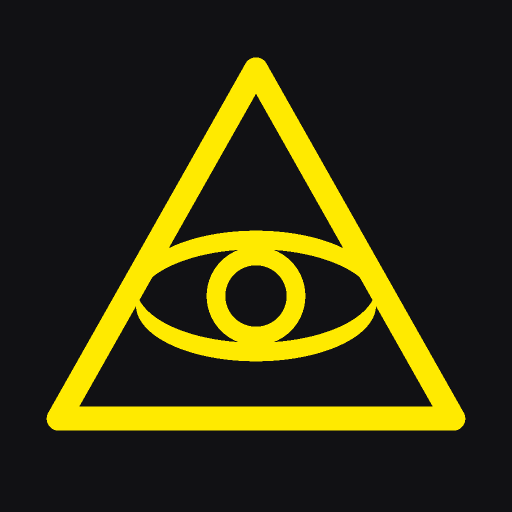
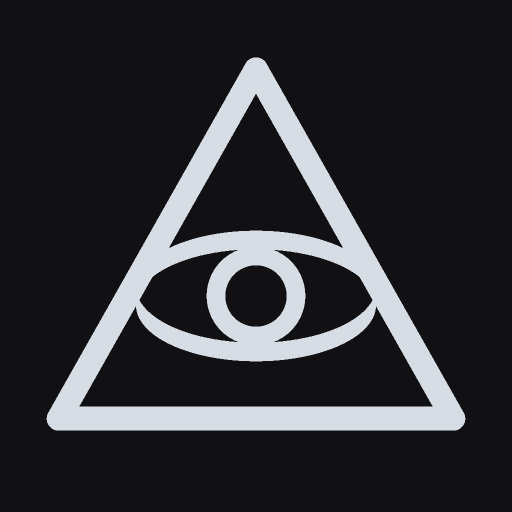
Apply exec_tool script file changes

Changed region(s): [[0.0938, 0.0938, 0.9062, 0.8438]]

diff --git a/src/index.css b/src/index.css
@@ -93,22 +93,22 @@
 }
 
 @layer base {
-:root{--background:0 0% 100%;--foreground:0 0% 0%;--card:0 0% 100%;--card-foreground:0 0% 0%;--popover:0 0% 100%;--popover-foreground:0 0% 0%;--primary:55 100% 50%;--primary-foreground:0 0% 0%;--secondary:0 0% 0%;--secondary-foreground:0 0% 100%;--accent:55 100% 50%;--accent-foreground:0 0% 9%;--muted:210 20% 98%;--muted-foreground:215 14% 34%;--destructive:0 0% 0%;--destructive-foreground:0 0% 100%;--border:220 13% 91%;--input:220 13% 91%;--ring:55 100% 50%;--radius:8px;--font-heading:'Inter', sans-serif;--font-body:'Inter', sans-serif;}
-:root{--brand-primary:#FFEA00;--brand-on-primary:#000000;--brand-secondary:#000000;--brand-accent:#FFEA00;--brand-background:#FFFFFF;--brand-surface:#FFFFFF;--brand-text:#000000;--brand-muted:#F9FAFB;--brand-muted-foreground:#4B5563;--brand-border:#E5E7EB;--brand-destructive:#000000;--brand-gold-light:#FFF7B3;--brand-gold-mid:#E6D400;--brand-gold-bright:#FFEE33;--brand-gold-deep:#CCBB00;--brand-card-subtle:#FAFAFA;--brand-font-heading:'Inter', sans-serif;--brand-font-body:'Inter', sans-serif;--brand-font-weight-regular:400;--brand-font-weight-medium:500;--brand-font-weight-bold:700;--brand-font-weight-black:900;--brand-sp-1:4px;--brand-sp-2:8px;--brand-sp-3:16px;--brand-sp-4:24px;--brand-sp-5:32px;--brand-sp-6:64px;--brand-radius-none:0px;--brand-radius-sm:4px;--brand-radius-md:8px;--brand-radius-lg:12px;--brand-radius-full:9999px;--brand-radius:8px;--brand-shadow-none:none;--brand-shadow-sm:0 1px 2px rgba(0,0,0,0.05);--brand-shadow-md:0 4px 6px rgba(0,0,0,0.05);--brand-shadow-lg:0 10px 15px rgba(0,0,0,0.05);--brand-shadow:0 4px 6px rgba(0,0,0,0.05);}
+:root{--background:0 0% 100%;--foreground:0 0% 0%;--card:0 0% 100%;--card-foreground:0 0% 0%;--popover:0 0% 100%;--popover-foreground:0 0% 0%;--primary:210 12% 22%;--primary-foreground:0 0% 100%;--secondary:0 0% 0%;--secondary-foreground:0 0% 100%;--accent:210 8% 92%;--accent-foreground:210 12% 22%;--muted:210 20% 98%;--muted-foreground:215 14% 34%;--destructive:0 0% 0%;--destructive-foreground:0 0% 100%;--border:220 13% 91%;--input:220 13% 91%;--ring:210 12% 22%;--radius:8px;--font-heading:'Inter', sans-serif;--font-body:'Inter', sans-serif;}
+:root{--brand-primary:#303740;--brand-on-primary:#FFFFFF;--brand-secondary:#000000;--brand-accent:#DDE2E7;--brand-background:#FFFFFF;--brand-surface:#FFFFFF;--brand-text:#000000;--brand-muted:#F9FAFB;--brand-muted-foreground:#4B5563;--brand-border:#E5E7EB;--brand-destructive:#000000;--brand-gold-light:#505963;--brand-gold-mid:#323941;--brand-gold-bright:#59616B;--brand-gold-deep:#252B33;--brand-card-subtle:#FAFAFA;--brand-font-heading:'Inter', sans-serif;--brand-font-body:'Inter', sans-serif;--brand-font-weight-regular:400;--brand-font-weight-medium:500;--brand-font-weight-bold:700;--brand-font-weight-black:900;--brand-sp-1:4px;--brand-sp-2:8px;--brand-sp-3:16px;--brand-sp-4:24px;--brand-sp-5:32px;--brand-sp-6:64px;--brand-radius-none:0px;--brand-radius-sm:4px;--brand-radius-md:8px;--brand-radius-lg:12px;--brand-radius-full:9999px;--brand-radius:8px;--brand-shadow-none:none;--brand-shadow-sm:0 1px 2px rgba(0,0,0,0.05);--brand-shadow-md:0 4px 6px rgba(0,0,0,0.05);--brand-shadow-lg:0 10px 15px rgba(0,0,0,0.05);--brand-shadow:0 4px 6px rgba(0,0,0,0.05);}
 }
 @layer base{h1,h2,h3,h4,h5,h6{font-family:var(--font-heading)}body{font-family:var(--font-body)}}
 
-.brand-primary{display:inline-flex;align-items:center;justify-content:center;gap:6px;border:0;border-radius:9999px;padding:12px 16px;background:linear-gradient(135deg,var(--brand-gold-light),var(--brand-primary) 20%,var(--brand-gold-mid) 45%,var(--brand-gold-bright) 65%,var(--brand-primary) 80%,var(--brand-gold-deep));color:var(--brand-on-primary);font:700 14px/20px var(--brand-font-body);white-space:nowrap;box-shadow:inset 0 1px #fff6,inset 0 -1px #8c6e0040,0 1px 3px #00000026;transition:all .15s cubic-bezier(.4,0,.2,1)}
+.brand-primary{display:inline-flex;align-items:center;justify-content:center;gap:6px;border:0;border-radius:9999px;padding:12px 16px;background:linear-gradient(135deg,var(--brand-gold-light),var(--brand-primary) 20%,var(--brand-gold-mid) 45%,var(--brand-gold-bright) 65%,var(--brand-primary) 80%,var(--brand-gold-deep));color:var(--brand-on-primary);font:700 14px/20px var(--brand-font-body);white-space:nowrap;box-shadow:inset 0 1px #fff6,inset 0 -1px #1d252e40,0 1px 3px #00000026;transition:all .15s cubic-bezier(.4,0,.2,1)}
 .brand-primary svg{width:16px;height:16px}.brand-primary:hover{background:linear-gradient(135deg,var(--brand-gold-bright),var(--brand-primary) 25%,var(--brand-gold-mid) 55%,var(--brand-gold-light) 75%,var(--brand-gold-deep));filter:brightness(1.06)}
-.brand-outline{display:inline-flex;align-items:center;justify-content:center;gap:6px;border:1px solid #0003;border-radius:12px;padding:12px 16px;background:transparent;color:var(--brand-text);font:700 14px/20px var(--brand-font-body);white-space:nowrap;transition:border-color .15s,box-shadow .15s,background .15s,color .15s}.brand-outline svg{width:16px;height:16px}.brand-outline:hover{background:var(--brand-secondary);color:var(--brand-background);border-color:var(--brand-primary);box-shadow:0 0 0 1px #ffea004d,0 0 14px -3px #ffea0073}
+.brand-outline{display:inline-flex;align-items:center;justify-content:center;gap:6px;border:1px solid #0003;border-radius:12px;padding:12px 16px;background:transparent;color:var(--brand-text);font:700 14px/20px var(--brand-font-body);white-space:nowrap;transition:border-color .15s,box-shadow .15s,background .15s,color .15s}.brand-outline svg{width:16px;height:16px}.brand-outline:hover{background:var(--brand-secondary);color:var(--brand-background);border-color:var(--brand-primary);box-shadow:0 0 0 1px #87909a4d,0 0 14px -3px #87909a73}
 .brand-link{color:#52525b;font:500 14px/20px var(--brand-font-body);text-decoration:none;white-space:nowrap;transition:color .15s cubic-bezier(.4,0,.2,1)}.brand-link:hover{color:var(--brand-gold-deep)}
-.brand-pill{display:inline-flex;align-items:center;justify-content:center;padding:4px 12px;border-radius:var(--brand-radius-full);background-color:#FFFBCC;background-image:radial-gradient(rgba(255,234,0,.28) 1px,transparent 1px);background-size:5px 5px;color:#8A7300;font-family:var(--brand-font-body);font-size:12px;line-height:16px;font-weight:var(--brand-font-weight-bold);letter-spacing:.06em;text-transform:uppercase;white-space:nowrap}
-.brand-tabs{display:inline-flex;gap:12px;font:600 14px/20px var(--brand-font-body)}.brand-tabs input{position:absolute;opacity:0;width:1px;height:1px}.brand-tabs span{display:block;padding:10px 20px;border:1px solid var(--brand-border);border-radius:9999px;color:#52525b;background:var(--brand-background);white-space:nowrap;cursor:pointer;transition:all .15s cubic-bezier(.4,0,.2,1)}.brand-tabs span:hover{border-color:var(--brand-primary);color:var(--brand-text)}.brand-tabs input:checked+span{border-color:transparent;color:var(--brand-on-primary);background:linear-gradient(135deg,var(--brand-gold-light),var(--brand-primary) 20%,var(--brand-gold-mid) 45%,var(--brand-gold-bright) 65%,var(--brand-primary) 80%,var(--brand-gold-deep));box-shadow:inset 0 1px #fff6,inset 0 -1px #8c6e0040,0 1px 3px #00000026}.brand-tabs input:focus-visible+span{outline:2px solid #000;outline-offset:3px}
-.brand-board{width:100%;box-sizing:border-box;border:1px solid rgba(0,0,0,.1);border-radius:16px;background:#FAFAFA;padding:24px;color:var(--brand-text);font-family:var(--brand-font-body)}.brand-board-icon{width:42px;height:42px;border-radius:12px;background:rgba(255,234,0,.15);display:flex;align-items:center;justify-content:center;color:#CCBB00}.brand-board h3{margin:20px 0 0;font-size:18px;line-height:28px;font-weight:var(--brand-font-weight-bold);color:var(--brand-text)}.brand-board p{margin:12px 0 0;font-size:14px;line-height:1.625;color:rgba(0,0,0,.55)}
+.brand-pill{display:inline-flex;align-items:center;justify-content:center;padding:4px 12px;border-radius:var(--brand-radius-full);background-color:#E9ECF0;background-image:radial-gradient(rgba(118,130,142,.20) 1px,transparent 1px);background-size:5px 5px;color:#303740;font-family:var(--brand-font-body);font-size:12px;line-height:16px;font-weight:var(--brand-font-weight-bold);letter-spacing:.06em;text-transform:uppercase;white-space:nowrap}
+.brand-tabs{display:inline-flex;gap:12px;font:600 14px/20px var(--brand-font-body)}.brand-tabs input{position:absolute;opacity:0;width:1px;height:1px}.brand-tabs span{display:block;padding:10px 20px;border:1px solid var(--brand-border);border-radius:9999px;color:#52525b;background:var(--brand-background);white-space:nowrap;cursor:pointer;transition:all .15s cubic-bezier(.4,0,.2,1)}.brand-tabs span:hover{border-color:var(--brand-primary);color:var(--brand-text)}.brand-tabs input:checked+span{border-color:transparent;color:var(--brand-on-primary);background:linear-gradient(135deg,var(--brand-gold-light),var(--brand-primary) 20%,var(--brand-gold-mid) 45%,var(--brand-gold-bright) 65%,var(--brand-primary) 80%,var(--brand-gold-deep));box-shadow:inset 0 1px #fff6,inset 0 -1px #1d252e40,0 1px 3px #00000026}.brand-tabs input:focus-visible+span{outline:2px solid #000;outline-offset:3px}
+.brand-board{width:100%;box-sizing:border-box;border:1px solid rgba(0,0,0,.1);border-radius:16px;background:#FAFAFA;padding:24px;color:var(--brand-text);font-family:var(--brand-font-body)}.brand-board-icon{width:42px;height:42px;border-radius:12px;background:rgba(118,130,142,.15);display:flex;align-items:center;justify-content:center;color:#59616B}.brand-board h3{margin:20px 0 0;font-size:18px;line-height:28px;font-weight:var(--brand-font-weight-bold);color:var(--brand-text)}.brand-board p{margin:12px 0 0;font-size:14px;line-height:1.625;color:rgba(0,0,0,.55)}
 .operator-panel{border:1px solid var(--brand-border);border-radius:16px;background:var(--brand-surface);box-shadow:var(--brand-shadow-sm);overflow:hidden}.operator-input{display:block;box-sizing:border-box;width:100%;border:1px solid #E4E4E7;border-radius:var(--brand-radius-md);background:var(--brand-surface);color:var(--brand-text);padding:11px 12px;font-family:var(--brand-font-body);font-size:14px;font-weight:400}.field-label{display:grid;gap:8px;font-size:13px;font-weight:600}.operator-nav{display:flex;align-items:center;gap:12px;padding:12px 16px;border-radius:9999px;color:#4B5563;font-size:13px;font-weight:500;white-space:nowrap}.operator-nav[aria-current=page]{background:#F9FAFB;color:#000;font-weight:700}.operator-nav:hover{background:#F9FAFB}.operator-nav[aria-current=page]::after{content:'';height:6px;width:6px;background:var(--brand-primary);border-radius:50%;margin-left:auto}.operator-grid{background-image:radial-gradient(#E5E7EB 1px,transparent 1px);background-size:20px 20px}.neutral-pill{display:inline-flex;align-items:center;gap:6px;border:1px solid var(--brand-border);border-radius:9999px;padding:4px 10px;font-size:11px;color:#4B5563;background:white}
-button,a,summary{cursor:pointer}button:disabled{opacity:.5;cursor:not-allowed}button:focus-visible,a:focus-visible,input:focus-visible,textarea:focus-visible,select:focus-visible{outline:2px solid #000;outline-offset:3px}::selection{background:#FFFBCC;color:#000}
+button,a,summary{cursor:pointer}button:disabled{opacity:.5;cursor:not-allowed}button:focus-visible,a:focus-visible,input:focus-visible,textarea:focus-visible,select:focus-visible{outline:2px solid #000;outline-offset:3px}::selection{background:#E9ECF0;color:#000}
 @media(prefers-reduced-motion:reduce){*,*::before,*::after{animation:none!important;transition:none!important;scroll-behavior:auto!important}}
-.dark{--background:240 7% 7%;--foreground:0 0% 96%;--card:240 5% 10%;--card-foreground:0 0% 96%;--popover:240 5% 10%;--popover-foreground:0 0% 96%;--primary:55 100% 50%;--primary-foreground:0 0% 0%;--secondary:240 5% 15%;--secondary-foreground:0 0% 96%;--accent:240 5% 17%;--accent-foreground:0 0% 96%;--muted:240 5% 15%;--muted-foreground:240 4% 70%;--border:240 5% 25%;--input:240 5% 25%;--ring:55 100% 50%;--sidebar-background:240 6% 9%;--sidebar-foreground:0 0% 95%;--brand-background:#111114;--brand-surface:#19191D;--brand-text:#F5F5F5;--brand-muted:#242429;--brand-muted-foreground:#B4B4BC;--brand-border:#3C3C44;--brand-card-subtle:#242429}
+.dark{--background:240 7% 7%;--foreground:0 0% 96%;--card:240 5% 10%;--card-foreground:0 0% 96%;--popover:240 5% 10%;--popover-foreground:0 0% 96%;--primary:210 17% 87%;--primary-foreground:240 7% 7%;--secondary:240 5% 15%;--secondary-foreground:0 0% 96%;--accent:240 5% 17%;--accent-foreground:0 0% 96%;--muted:240 5% 15%;--muted-foreground:240 4% 70%;--border:240 5% 25%;--input:240 5% 25%;--ring:210 17% 87%;--sidebar-background:240 6% 9%;--brand-primary:#D7DDE4;--brand-on-primary:#111114;--brand-accent:#59616B;--brand-gold-light:#E7EBEF;--brand-gold-mid:#C8CFD6;--brand-gold-bright:#F0F3F6;--brand-gold-deep:#AAB3BC;--sidebar-foreground:0 0% 95%;--brand-background:#111114;--brand-surface:#19191D;--brand-text:#F5F5F5;--brand-muted:#242429;--brand-muted-foreground:#B4B4BC;--brand-border:#3C3C44;--brand-card-subtle:#242429}
 .dark .operator-panel,.dark .brand-board{background:var(--brand-surface);border-color:var(--brand-border);color:var(--brand-text)}
 .dark .operator-input{background:var(--brand-surface);color:var(--brand-text);border-color:var(--brand-border)}
 .dark .operator-nav{color:var(--brand-muted-foreground)}.dark .operator-nav:hover,.dark .operator-nav[aria-current=page]{background:var(--brand-muted);color:var(--brand-text)}

diff --git a/src/pages/Home.jsx b/src/pages/Home.jsx
@@ -26,7 +26,7 @@ export default function Home() {
   if(data.loading)return <div className="min-h-screen flex items-center justify-center gap-3 text-sm"><Loader2 className="h-5 w-5 animate-spin"/>Loading your workspace…</div>;
   if(!data.user||data.user.role!=='admin')return <div className="max-w-lg mx-auto p-8 mt-20 text-center"><ShieldCheck className="h-10 w-10 mx-auto mb-6"/><h1 className="text-2xl font-bold">Administrator access required</h1><p className="text-muted-foreground mt-4">{data.error?.message||'Computer operations are restricted to workspace administrators.'}</p></div>;
   return <OperatorShell view={view} onNavigate={navigate} user={data.user}>
-    <div className="flex flex-wrap justify-between items-center gap-5 mb-7"><div><div className="flex items-center gap-2 mb-3"><span className="w-1.5 h-1.5 rounded-full bg-primary"/><p className="text-[10px] font-semibold text-muted-foreground">XTREME AI OPERATOR</p></div><h1 className="text-3xl sm:text-[34px] font-bold">{pages[view][0]}</h1><p className="text-sm text-muted-foreground mt-2">{pages[view][1]}</p></div>{view==='schedules'?<BrandButton disabled={data.schedules.length>=50} onClick={()=>setForm('schedule')}><Plus/>New schedule</BrandButton>:['overview','tasks'].includes(view)?<BrandButton onClick={()=>setForm('task')}><Plus/>New task</BrandButton>:null}</div>
+    <div className="flex flex-wrap justify-between items-center gap-5 mb-7"><div><div className="flex items-center gap-2 mb-3"><span className="w-1.5 h-1.5 rounded-full bg-primary"/><p className="text-[10px] font-semibold text-muted-foreground">STRATEGIC</p></div><h1 className="text-3xl sm:text-[34px] font-bold">{pages[view][0]}</h1><p className="text-sm text-muted-foreground mt-2">{pages[view][1]}</p></div>{view==='schedules'?<BrandButton disabled={data.schedules.length>=50} onClick={()=>setForm('schedule')}><Plus/>New schedule</BrandButton>:['overview','tasks'].includes(view)?<BrandButton onClick={()=>setForm('task')}><Plus/>New task</BrandButton>:null}</div>
     {Date.now()<Date.parse('2026-10-12T00:00:00Z')&&<div className="border rounded-xl p-4 mb-7 flex flex-wrap items-center gap-3 text-xs bg-muted"><Info className="w-4 h-4 shrink-0"/><p className="flex-1 min-w-48"><strong>Automation credits unavailable.</strong><span className="text-muted-foreground"> As reported September 26: upgrade or wait for October 12. Task saving and ZIP extraction still work.</span></p><button className="brand-link !text-xs flex items-center gap-1" onClick={()=>navigate('schedules')}>View schedules<ArrowRight className="w-3 h-3"/></button></div>}
     {data.error&&<p role="alert" className="border border-black/30 rounded-xl p-4 mb-6 text-sm">{data.error.message}<button className="ml-3 underline" onClick={data.refresh}>Refresh</button></p>}
     {['tasks','schedules'].includes(view)&&<AccountSelector accounts={data.accounts} value={selectedAccount} onChange={selectAccount}/>}

diff --git a/src/components/operator/OperatorNavigation.jsx b/src/components/operator/OperatorNavigation.jsx
@@ -5,7 +5,7 @@ import { base44 } from '@/api/base44Client';
 export const navigation=[['overview','Overview',LayoutDashboard],['tasks','Task queue',ListTodo],['schedules','Schedules',Clock3],['systems','Connected systems',Monitor],['sources','Source packages',FolderArchive],['mcp','MCP access',Network],['whatsapp','WhatsApp',Phone],['audit','Health audit',ScanSearch],['activity','Agent activity',Activity],['accounts','Google accounts',Users]];
 export default function OperatorNavigation({ view, onNavigate, user, onClose }) {
   return <aside id="operator-navigation" className="flex h-full flex-col bg-sidebar border-r border-border" aria-label="Tool menu">
-    <div className="flex items-center gap-3 px-5 py-6"><span className="flex h-11 w-11 shrink-0 items-center justify-center rounded-xl bg-primary text-primary-foreground"><OperatorMark className="h-7 w-7"/></span><div className="min-w-0"><strong className="block text-base font-bold truncate">XTREME</strong><span className="text-[11px] text-muted-foreground">AGENT COMMAND</span></div><button className="ml-auto rounded-lg p-2 md:hidden" aria-label="Close tool menu" onClick={onClose}><X className="h-5 w-5"/></button></div>
+    <div className="flex items-center gap-3 px-5 py-6"><span className="flex h-11 w-11 shrink-0 items-center justify-center rounded-xl bg-primary text-primary-foreground"><OperatorMark className="h-7 w-7"/></span><div className="min-w-0"><strong className="block text-base font-bold truncate">Strategic</strong><span className="text-[11px] text-muted-foreground">AGENT COMMAND</span></div><button className="ml-auto rounded-lg p-2 md:hidden" aria-label="Close tool menu" onClick={onClose}><X className="h-5 w-5"/></button></div>
     <div className="px-4 pb-3 text-[11px] font-semibold uppercase text-muted-foreground">Tools</div><nav aria-label="Main navigation" className="flex-1 overflow-y-auto px-3 pb-4 space-y-1">{navigation.map(([key,label,Icon])=><button key={key} className="operator-nav w-full text-left" aria-current={view===key?'page':undefined} onClick={()=>{onNavigate(key);onClose();}}><Icon className="h-4 w-4 shrink-0"/>{label}</button>)}</nav>
     <div className="border-t border-border p-4 flex items-center gap-3"><span className="flex h-9 w-9 items-center justify-center rounded-full bg-primary text-primary-foreground font-bold text-xs">{(user?.full_name||'A').slice(0,1)}</span><div className="min-w-0 flex-1"><p className="truncate text-sm font-semibold">{user?.full_name||'Administrator'}</p><p className="text-xs text-muted-foreground">Workspace admin</p></div><button className="rounded-lg p-2" aria-label="Sign out" onClick={()=>base44.auth.logout('/login')}><LogOut className="h-4 w-4"/></button></div>
   </aside>;

diff --git a/src/components/operator/OperatorShell.jsx b/src/components/operator/OperatorShell.jsx
@@ -16,7 +16,7 @@ export default function OperatorShell({ view, onNavigate, user, children }) {
         <div className="flex items-center gap-2"><span className="hidden sm:inline-flex neutral-pill"><ShieldCheck className="h-3 w-3"/>Admin access</span><button type="button" className="rounded-lg p-2 hover:bg-accent" aria-label={theme==='dark'?'Switch to light mode':'Switch to dark mode'} onClick={()=>setTheme(theme==='dark'?'light':'dark')}>{theme==='dark'?<Sun className="h-5 w-5"/>:<Moon className="h-5 w-5"/>}</button><button type="button" className="brand-outline !py-2 !px-3" aria-label={chatOpen?'Close copilot':'Open copilot'} aria-expanded={chatOpen} onClick={()=>setChatOpen(!chatOpen)}><MessageSquare className="h-4 w-4"/><span className="hidden sm:inline">Copilot</span></button></div>
       </header>
       <main className="max-w-[1536px] mx-auto p-4 sm:p-7 lg:p-9">{children}</main>
-      <footer className="px-4 sm:px-7 py-6 border-t border-border text-xs text-muted-foreground">Xtreme Agent Command · Secure pairing · Desktop companion</footer>
+      <footer className="px-4 sm:px-7 py-6 border-t border-border text-xs text-muted-foreground">Strategic · Secure pairing · Desktop companion</footer>
     </div>
     <CopilotDrawer open={chatOpen} onClose={()=>setChatOpen(false)} userId={user?.id}/>
   </div>;

diff --git a/public/sw.js b/public/sw.js
@@ -1,4 +1,4 @@
-const CACHE='xtreme-shell-v1';
+const CACHE='strategic-shell-v2';
 self.addEventListener('install',event=>{event.waitUntil(caches.open(CACHE).then(cache=>cache.addAll(['/','/icon.svg','/icon-192.png','/icon-512.png','/manifest.webmanifest'])));self.skipWaiting();});
 self.addEventListener('activate',event=>{event.waitUntil(caches.keys().then(keys=>Promise.all(keys.filter(key=>key!==CACHE).map(key=>caches.delete(key)))));self.clients.claim();});
 self.addEventListener('fetch',event=>{const req=event.request;if(req.method!=='GET'||new URL(req.url).origin!==self.location.origin)return;if(req.mode==='navigate'){event.respondWith(fetch(req).catch(()=>caches.match('/')));return;}if(['script','style','image','font'].includes(req.destination)){event.respondWith(fetch(req).catch(()=>caches.match(req)));}});

diff --git a/index.html b/index.html
@@ -9,7 +9,7 @@
     <meta name="apple-mobile-web-app-status-bar-style" content="black-translucent" />
     <link rel="apple-touch-icon" href="/icon-192.png" />
     <link rel="manifest" href="/manifest.webmanifest" />
-    <title>Xtreme Agent Command</title>
+    <title>Strategic</title>
     <script>try{document.documentElement.classList.toggle('dark',localStorage.getItem('operator-theme')!=='light')}catch(e){document.documentElement.classList.add('dark')}</script>
   </head>
   <body>
